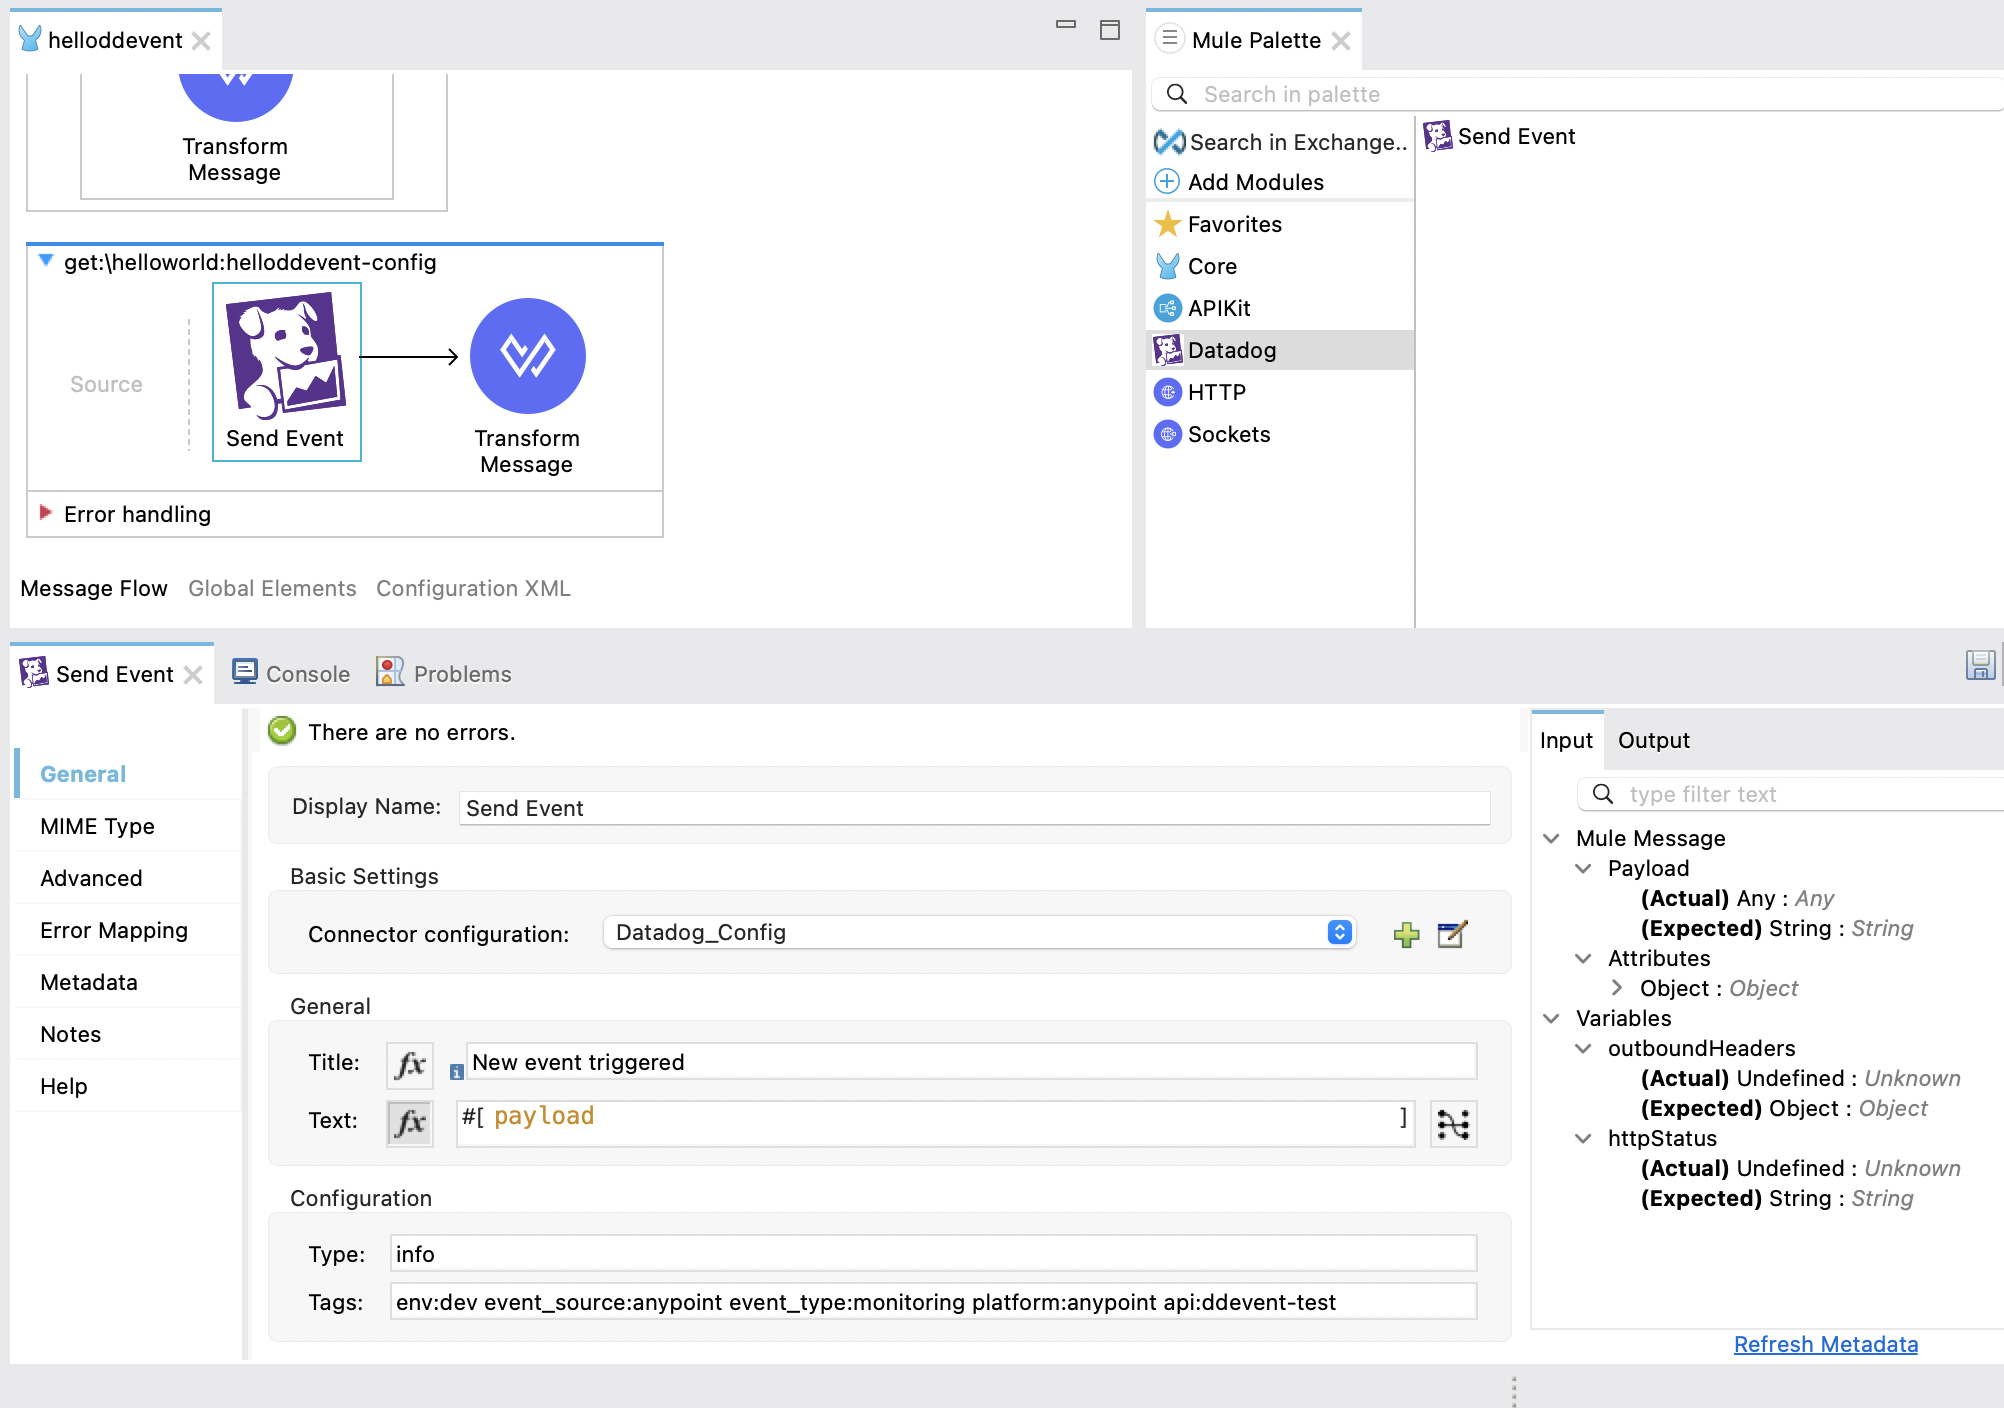
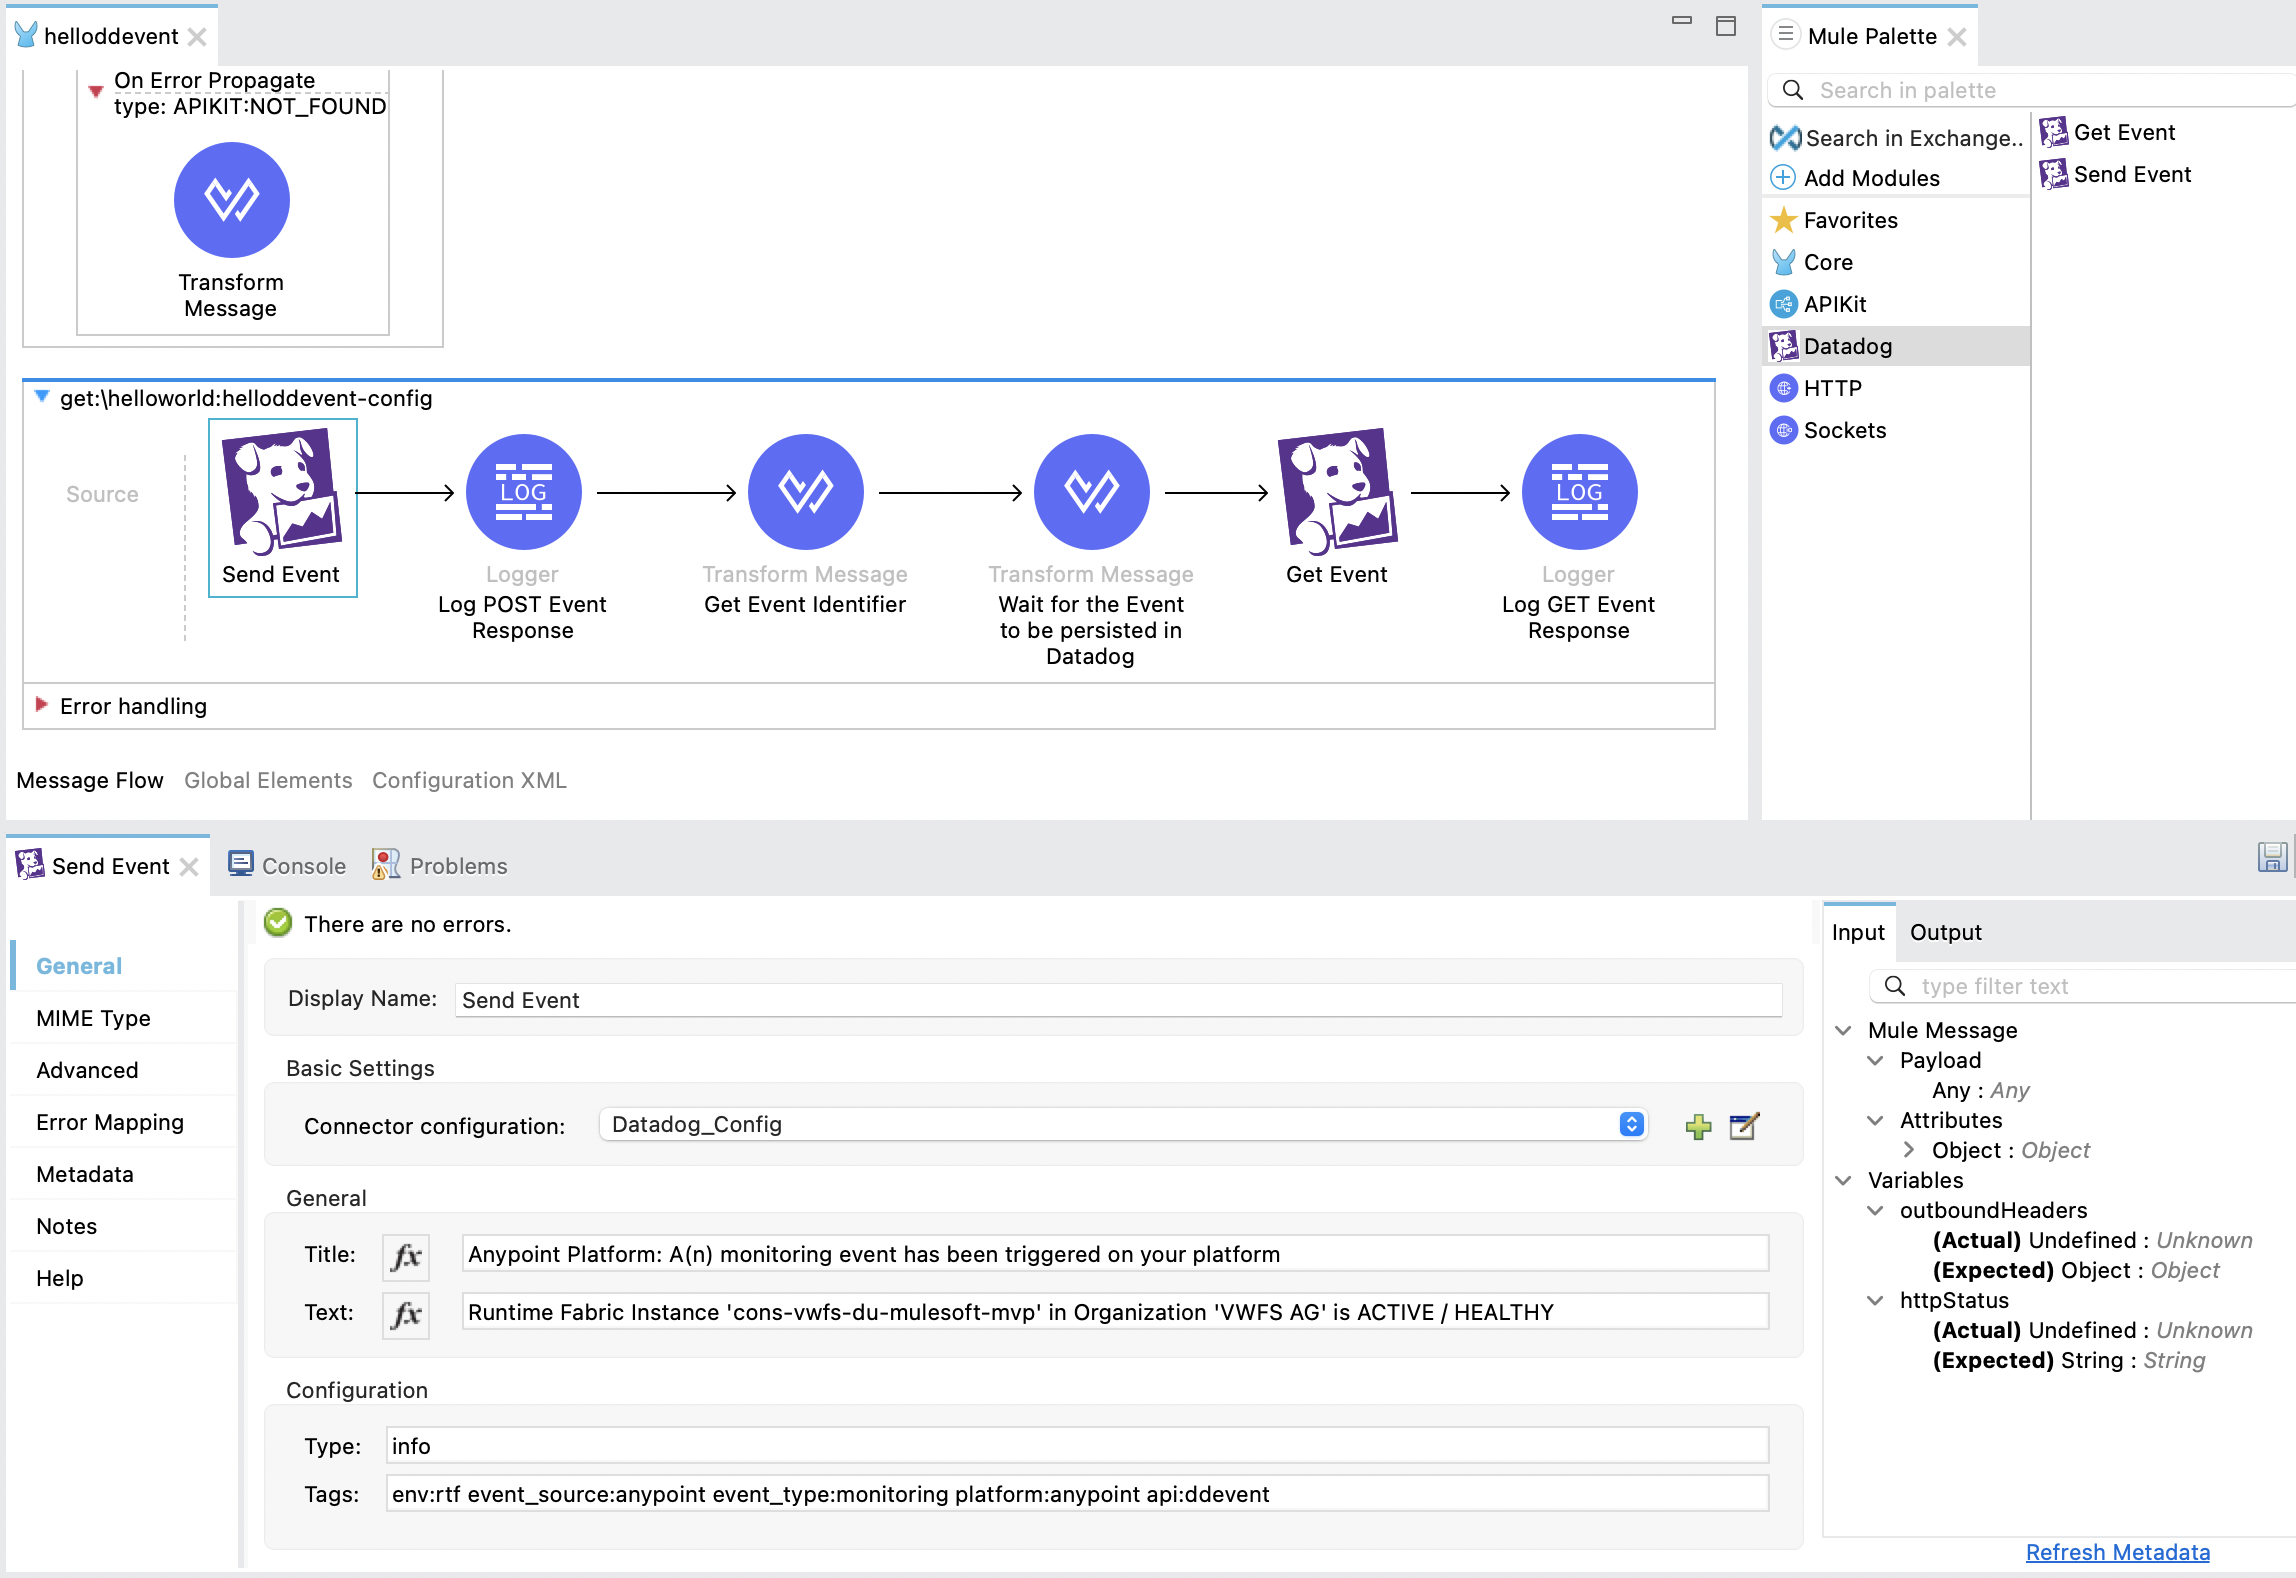
Added getEvent support

diff --git a/src/main/java/org/mule/extension/mule/datadog/internal/DatadogConnection.java b/src/main/java/org/mule/extension/mule/datadog/internal/DatadogConnection.java
@@ -2,7 +2,7 @@ package org.mule.extension.mule.datadog.internal;
 
 import org.mule.extension.mule.datadog.api.DatadogConnectionConfiguration;
 import org.mule.extension.mule.datadog.api.DatadogCredentialsConfiguration;
-import org.mule.extension.mule.datadog.api.DatadogEventConfiguration;
+import org.mule.extension.mule.datadog.api.DatadogSendEventConfiguration;
 import org.mule.extension.mule.datadog.api.DatadogEventConnectionConfiguration;
 import org.mule.extension.mule.datadog.api.DatadogUtils;
 import org.mule.runtime.api.util.MultiMap;
@@ -62,7 +62,32 @@ public final class DatadogConnection {
 	/*
 	 * See https://docs.datadoghq.com/api/latest/events/
 	 */
-	public InputStream sendEvent(String title, String text, DatadogEventConfiguration opsEventConfig) {
+	public InputStream getEvent(Long id) {
+		String strUri = hostConfig.getHost() + ":" + hostConfig.getPort() + DatadogUtils.DD_EVENTS_PATH + "/" + id;
+		MultiMap<String, String> params = DatadogUtils.getGetEventParameters(credConfig.getApiKey(),
+				credConfig.getAppKey());
+		HttpRequest httpRequest = HttpRequest.builder().method("GET").uri(strUri).queryParams(params)
+				.build();
+		LOGGER.debug("Http Request: [" + httpRequest.toString() + "]");
+		try {
+			HttpResponse httpResponse = httpClient.send(httpRequest, hostConfig.getTimeout(), false, null);
+			LOGGER.debug("Http Response: [" + httpResponse.toString() + "]");
+			return httpResponse.getEntity().getContent();
+		} catch (IOException e) {
+			LOGGER.error("IOException sending Event to Dadadog", e);
+		} catch (TimeoutException e) {
+			LOGGER.error("TimeoutException sending Event to Dadadog", e);
+		} catch (Exception e) {
+			LOGGER.error("Exception sending Event to Dadadog", e);
+		}
+
+		return null;
+	}
+	
+	/*
+	 * See https://docs.datadoghq.com/api/latest/events/
+	 */
+	public InputStream sendEvent(String title, String text, DatadogSendEventConfiguration opsEventConfig) {
 		String strUri = hostConfig.getHost() + ":" + hostConfig.getPort() + DatadogUtils.DD_EVENTS_PATH;
 		MultiMap<String, String> headers = DatadogUtils.getPostEventHeaders(credConfig.getApiKey(),
 				credConfig.getAppKey());
@@ -87,7 +112,7 @@ public final class DatadogConnection {
 		return null;
 	}
 
-	private String getPostEventRequest(String title, String text, DatadogEventConfiguration eventConfig) {
+	private String getPostEventRequest(String title, String text, DatadogSendEventConfiguration eventConfig) {
 		String[] tags = eventConfig.getTags().trim().split("\\s+");
 		StringBuilder postEventRequest = new StringBuilder();
 		postEventRequest.append("{ ")

diff --git a/src/main/java/org/mule/extension/mule/datadog/api/DatadogUtils.java b/src/main/java/org/mule/extension/mule/datadog/api/DatadogUtils.java
@@ -8,8 +8,11 @@ import org.mule.runtime.api.util.MultiMap;
 public class DatadogUtils {
 	public static final String DD_NAME = "datadog";
 
-	public static final String DD_API_KEY = "DD-API-KEY";
-	public static final String DD_APP_KEY = "DD-APP-KEY";
+	public static final String DD_API_KEY_HEADER = "DD-API-KEY";
+	public static final String DD_APP_KEY_HEADER = "DD-APP-KEY";
+	
+	public static final String DD_API_KEY_QPARAM = "api_key";
+	public static final String DD_APP_KEY_QPARAM = "application_key";
 
 	public static final String DD_EVENTS_PATH = "/api/v1/events";
 	
@@ -20,10 +23,18 @@ public class DatadogUtils {
 	public static final String DD_EVENTS_TITLE = "title";
 	public static final String DD_EVENTS_TEXT = "text";
 
+	public static MultiMap<String, String> getGetEventParameters(String apiKey, String appKey) {
+		MultiMap<String, String> headers = new MultiMap<String, String>();
+		headers.put(DD_API_KEY_QPARAM, apiKey);
+		headers.put(DD_APP_KEY_QPARAM, appKey);
+	
+		return headers;
+	}
+	
 	public static MultiMap<String, String> getPostEventHeaders(String apiKey, String appKey) {
 		MultiMap<String, String> headers = new MultiMap<String, String>();
-		headers.put(DatadogUtils.DD_API_KEY, apiKey);
-		headers.put(DatadogUtils.DD_APP_KEY, appKey);
+		headers.put(DD_API_KEY_HEADER, apiKey);
+		headers.put(DD_APP_KEY_HEADER, appKey);
 		headers.put("Content-Type", "application/json");
 
 		return headers;

diff --git a/src/main/java/org/mule/extension/mule/datadog/api/DatadogExtension.java b/src/main/java/org/mule/extension/mule/datadog/api/DatadogExtension.java
@@ -3,12 +3,13 @@ package org.mule.extension.mule.datadog.api;
 import static org.mule.runtime.api.meta.Category.COMMUNITY;
 
 import org.mule.extension.mule.datadog.internal.DatadogConnectionProvider;
-import org.mule.extension.mule.datadog.internal.DatadogOperations;
+import org.mule.extension.mule.datadog.internal.DatadogGetEventOperation;
+import org.mule.extension.mule.datadog.internal.DatadogSendEventOperation;
 import org.mule.runtime.extension.api.annotation.Extension;
 import org.mule.runtime.extension.api.annotation.Operations;
 import org.mule.runtime.extension.api.annotation.connectivity.ConnectionProviders;
 import org.mule.runtime.extension.api.annotation.dsl.xml.Xml;
-
+	
 /**
  * This is the main class of an extension, is the entry point from which
  * configurations, connection providers, operations and sources are going to be
@@ -17,7 +18,7 @@ import org.mule.runtime.extension.api.annotation.dsl.xml.Xml;
 @Xml(prefix = "datadog")
 @Extension(name = "Datadog", vendor = "Acme Corp.", category = COMMUNITY)
 @ConnectionProviders(DatadogConnectionProvider.class)
-@Operations({ DatadogOperations.class })
+@Operations({ DatadogSendEventOperation.class, DatadogGetEventOperation.class })
 public class DatadogExtension {
 
 }

diff --git a/src/main/java/org/mule/extension/mule/datadog/internal/DatadogSendEventOperation.java b/src/main/java/org/mule/extension/mule/datadog/internal/DatadogSendEventOperation.java
@@ -2,7 +2,7 @@ package org.mule.extension.mule.datadog.internal;
 
 import static org.mule.runtime.extension.api.annotation.param.MediaType.ANY;
 
-import org.mule.extension.mule.datadog.api.DatadogEventConfiguration;
+import org.mule.extension.mule.datadog.api.DatadogSendEventConfiguration;
 import org.mule.runtime.extension.api.annotation.Alias;
 import org.mule.runtime.extension.api.annotation.param.MediaType;
 import org.mule.runtime.extension.api.annotation.param.ParameterGroup;
@@ -15,10 +15,10 @@ import java.io.InputStream;
  * This class is a container for operations, every public method in this class
  * will be taken as an extension operation.
  */
-public class DatadogOperations {
+public class DatadogSendEventOperation {
 
 	@ParameterGroup(name = "Configuration")
-	DatadogEventConfiguration eventConfig;
+	DatadogSendEventConfiguration eventConfig;
 
 	@MediaType(value = ANY, strict = false)
 	@DisplayName("Send Event")

diff --git a/src/main/java/org/mule/extension/mule/datadog/api/DatadogSendEventConfiguration.java b/src/main/java/org/mule/extension/mule/datadog/api/DatadogSendEventConfiguration.java
@@ -1,6 +1,6 @@
 package org.mule.extension.mule.datadog.api;
 
-import org.mule.extension.mule.datadog.internal.DatadogOperations;
+import org.mule.extension.mule.datadog.internal.DatadogSendEventOperation;
 import org.mule.runtime.extension.api.annotation.Operations;
 import org.mule.runtime.extension.api.annotation.param.Parameter;
 import org.mule.runtime.extension.api.annotation.param.display.DisplayName;
@@ -10,8 +10,8 @@ import org.mule.runtime.extension.api.annotation.param.Optional;
  * This class represents an extension configuration, values set in this class
  * are commonly used across event related operations.
  */
-@Operations(DatadogOperations.class)
-public class DatadogEventConfiguration {
+@Operations(DatadogSendEventOperation.class)
+public class DatadogSendEventConfiguration {
 
 	@Parameter
 	@DisplayName("Type")

diff --git a/src/main/java/org/mule/extension/mule/datadog/internal/DatadogGetEventOperation.java b/src/main/java/org/mule/extension/mule/datadog/internal/DatadogGetEventOperation.java
@@ -1,0 +1,23 @@
+package org.mule.extension.mule.datadog.internal;
+
+import static org.mule.runtime.extension.api.annotation.param.MediaType.ANY;
+
+import org.mule.runtime.extension.api.annotation.Alias;
+import org.mule.runtime.extension.api.annotation.param.MediaType;
+import org.mule.runtime.extension.api.annotation.param.display.DisplayName;
+import org.mule.runtime.extension.api.annotation.param.Connection;
+
+import java.io.InputStream;
+
+/**
+ * This class is a container for operations, every public method in this class
+ * will be taken as an extension operation.
+ */
+public class DatadogGetEventOperation {
+
+	@MediaType(value = ANY, strict = false)
+	@DisplayName("Get Event")
+	public InputStream getEvent(@Connection DatadogConnection connection, @Alias("Id") Long id) {
+		return connection.getEvent(id);
+	}
+}

diff --git a/README.md b/README.md
@@ -10,11 +10,12 @@ The following is an overview of the supported Connector operation(s):
 
 |No.|Operation|Description|Link|
 |---|---|---|---|
-|1|Send Event|Post events to the Datadog event stream|https://docs.datadoghq.com/api/latest/events/#post-an-event|
+|1|Send Event|Post new events to the Datadog event stream|https://docs.datadoghq.com/api/latest/events/#post-an-event|
+|2|Get Event|Get individual events from the Datadog event stream|https://docs.datadoghq.com/api/latest/events/#get-an-event|
 
 ### Extending this Connector
 
-This connector supports the creation of Datadog events only. The underlying Mule Extension project can be used as a starting point to further  encapsulate and enhance the Datadog API functionality.
+The underlying Mule Extension project can be used as a starting point to further encapsulate and enhance the Datadog API functionality.
 
 ## Usage
 ### Update Group Id in POM
